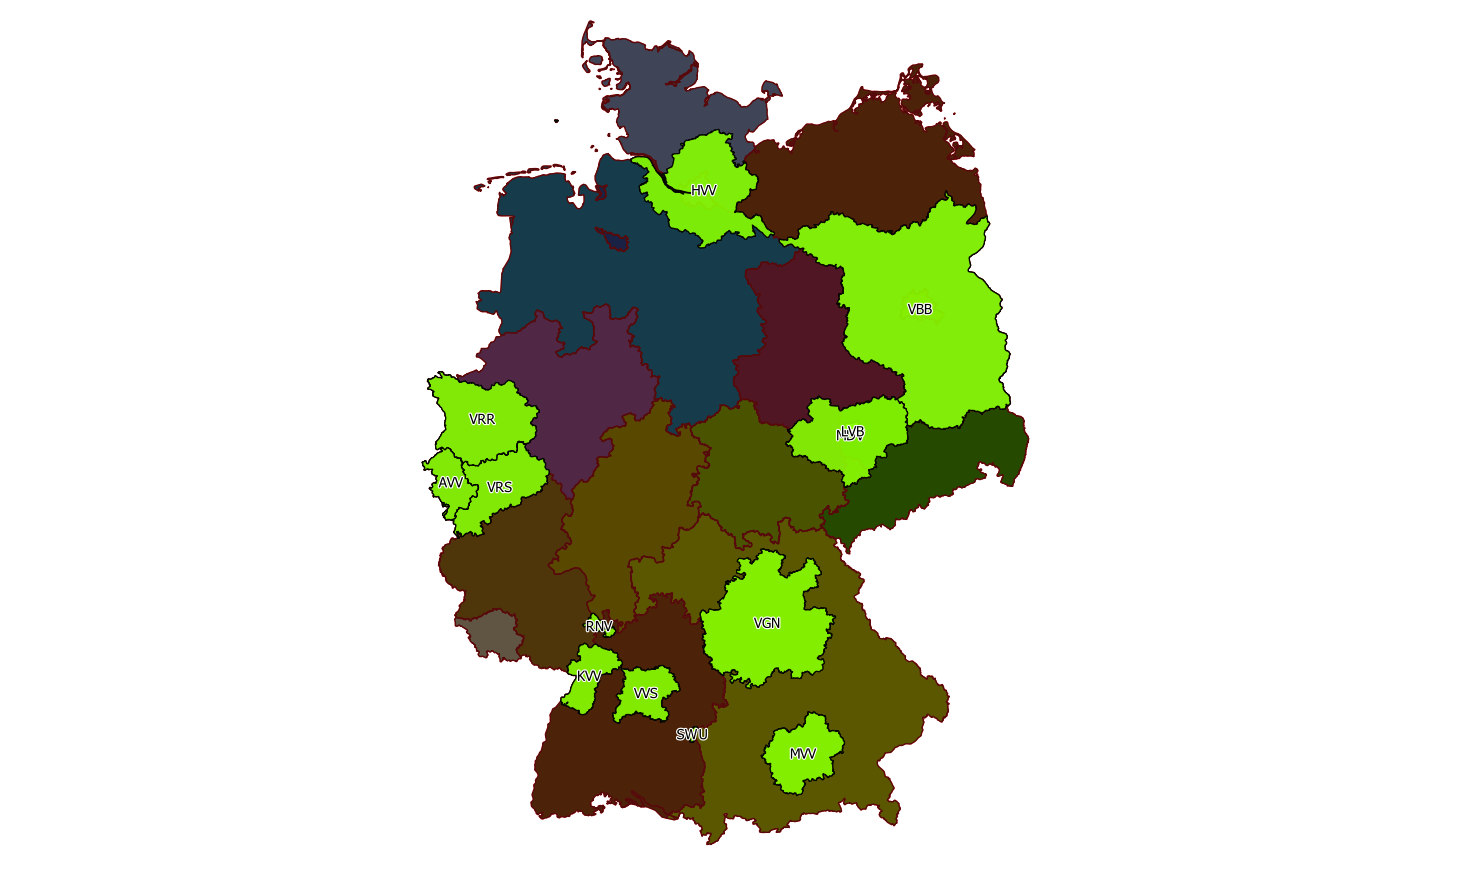
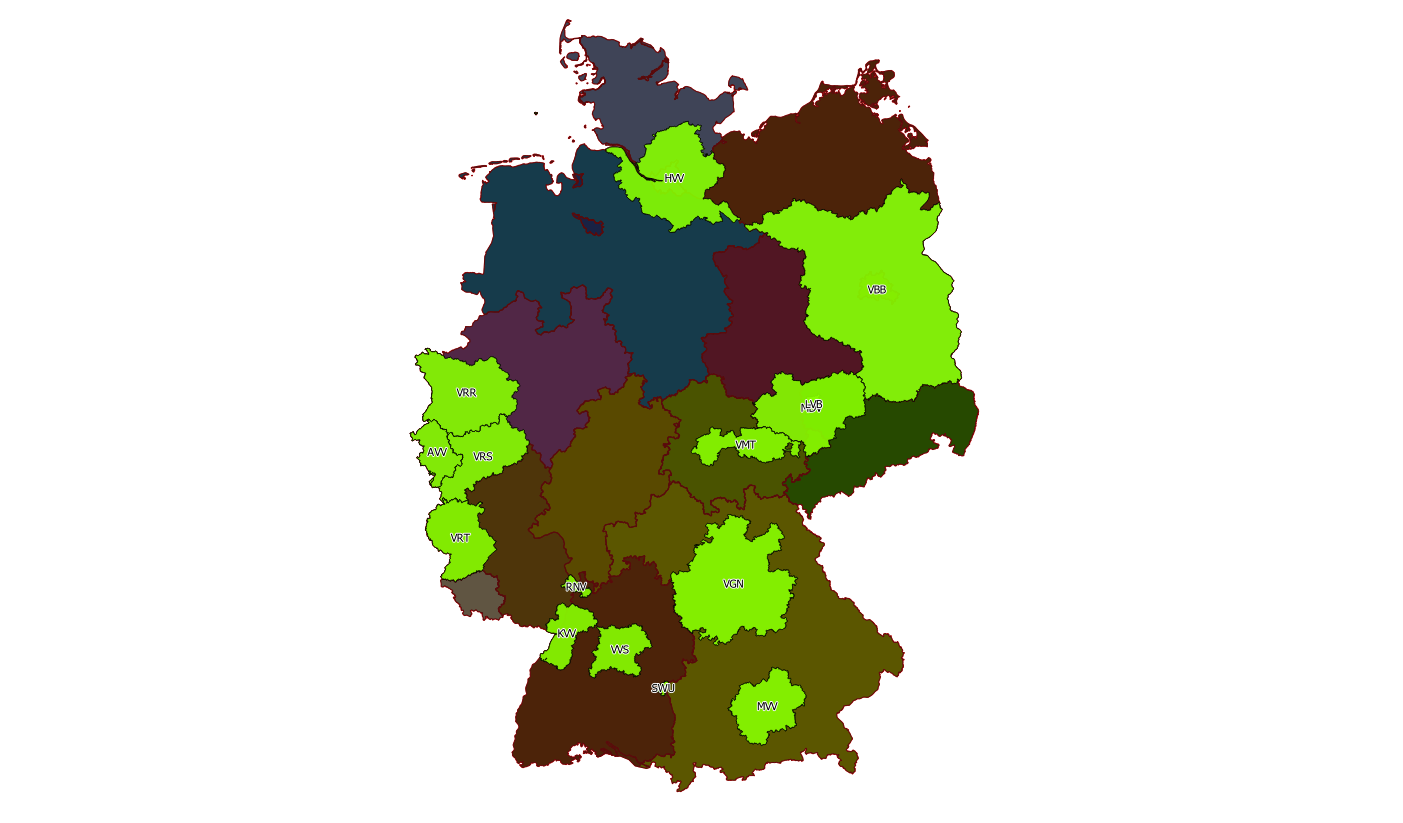
Added VMT.

diff --git a/README.md b/README.md
@@ -117,6 +117,12 @@ Münchner Verkehrs- und Tarifverbund
 
 * [GTFS](https://www.opendata-oepnv.de/dataset/soll-fahrplandaten-mvv) - offiziell, Lizenz [CC BY](http://www.opendefinition.org/licenses/cc-by) (keine Version angegeben), kein Antrag nötig
 
+### VMT
+
+Verkehrsgemeinschaft Mittelthüringen
+
+* [GTFS](https://www.vmt-thueringen.de/auskunft/open-data/) - offiziell, Lizenz [CC BY-ND 2.0](https://creativecommons.org/licenses/by-nd/2.0/de/), kein Antrag nötig
+
 ## Transportunternehmen
 
 ### DB Fernverkehr AG
